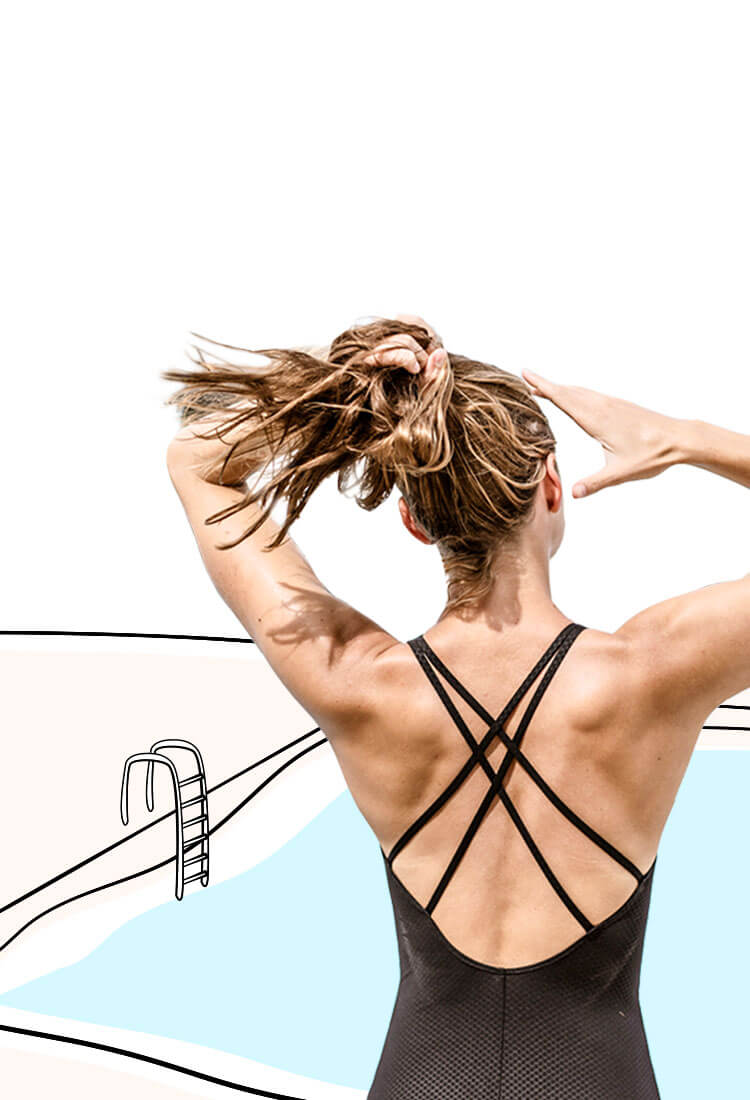
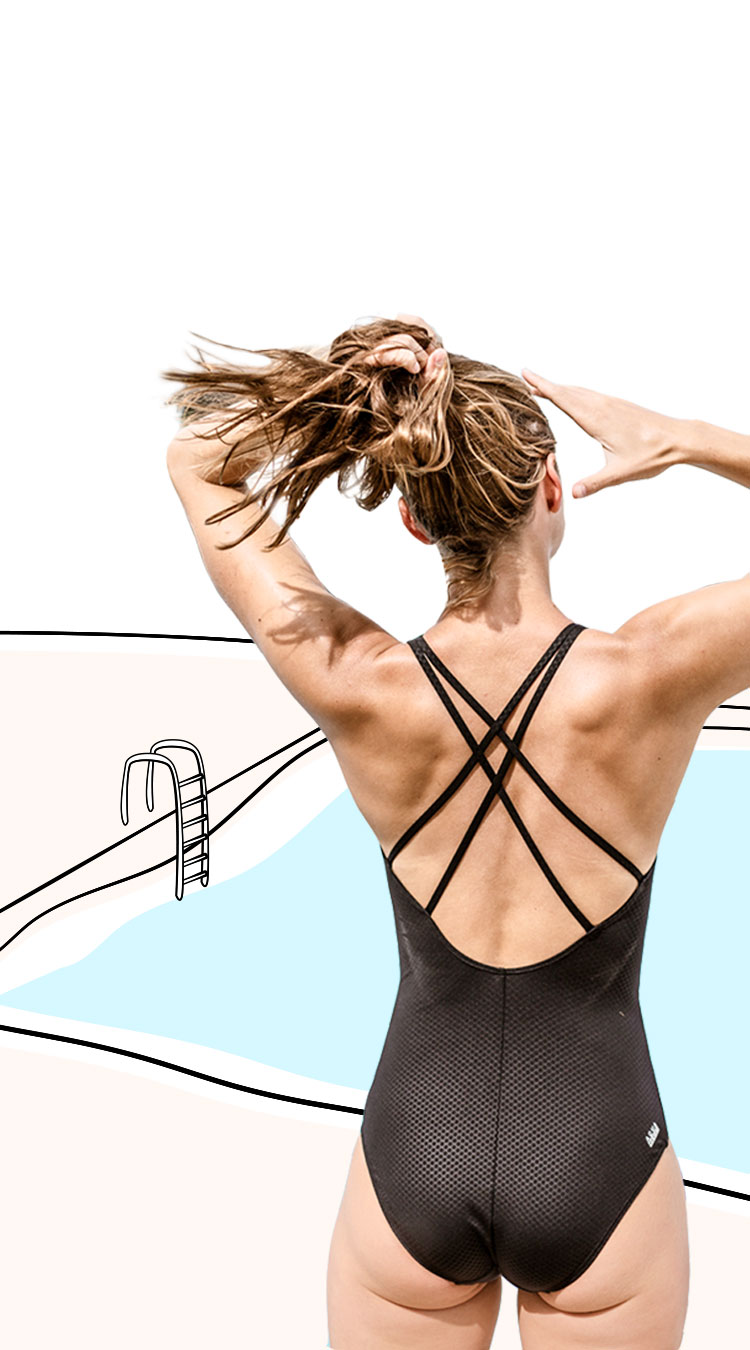
解决： 1. 文字显示时间

diff --git a/index.html b/index.html
@@ -30,14 +30,16 @@
     <div class="wrap">
         <div class="scene-flipper">
             <div class="scene-flipper_front">
-                <section class="stage stage-landing flex flex-direction_column flex-justify_between flex-align_center">
+                <section class="stage stage-landing flex flex-direction_column flex-justify_center flex-align_center">
+                    <div class="flex flex-direction_column flex-justify_between flex-align_center">
+                        <h2 class="words word-landing_title">晒出最美泳姿 赢迪卡侬大奖</h2>
+                        <ul class="flex flex-justify_center flex-align_center">
+                            <li><a class="btns btn-start" href="javascript:;">晒照赢奖</a></li>
+                            <li><a class="btns btn-buy" href="javascript:;">购买泳衣</a></li>
+                        </ul>
+                    </div>
                     <a class="btns btn-photoWall" href="javascript:;">照片墙</a>
                     <a class="btns btn-rule" href="javascript:;">活动规则</a>
-                    <h2 class="words word-landing_title">晒出最美泳姿 赢迪卡侬大奖</h2>
-                    <ul class="flex flex-justify_center flex-align_center">
-                        <li><a class="btns btn-start" href="javascript:;">晒照赢奖</a></li>
-                        <li><a class="btns btn-buy" href="javascript:;">购买泳衣</a></li>
-                    </ul>
                 </section>
             </div>
             <div class="scene-flipper_back">
@@ -128,6 +130,7 @@
         </li>
         <li>
             <section class="stage stage-photo flex flex-direction_column flex-justify_center flex-align_center">
+                <span class="words word-tips_photo"></span>
                 <div class="photo-container">
                     <div class="photo-canvas"><!-- js create elem --></div>
                     <div class="photo-template"><!-- js create elem --></div>
@@ -154,8 +157,8 @@
         <li>
             <section class="stage stage-wall">
                 <ul class="tab flex flex-justify_center flex-align_center">
-                    <li><span class="btns btn-photoWall_disable">照片墙</span></li>
-                    <li><a class="btns btn-playbill" href="javascript:;" title="个人海报">个人海报</a></li>
+                    <li><span class="btns btn-photoWall">照片墙</span></li>
+                    <li><a class="btns btn-playbill_disable" href="javascript:;" title="个人海报">个人海报</a></li>
                 </ul>
                 <a class="btns btn-home" href="javascript:;">首页</a>
                 <div class="wall-list flex flex-wrap_wrap flex-justify_center"><!-- js create elem --></div>
@@ -193,7 +196,7 @@
         <section class="pop-tmall">
             <div class="pop-tmall_box flex flex-direction_column flex-justify_center flex-align_center">
                 <div></div>
-                <div>
+                <div class="flex flex-direction_column flex-justify_center flex-align_center">
                     <h3 class="words word-tmall_title">复制淘口令，打开天猫</h3>
                     <p>復|制这段描述￥o5VaY0wrOCD￥后到☞淘♂寳♀☜</p>
                     <a class="btns btn-pop_copy" href="javascript:;" title="一键复制">一键复制</a>
@@ -285,6 +288,23 @@
         <section class="pop-error" data-close=".pop-error">
             <div class="pop-error_box flex flex-justify_center flex-align_center">
                 <span class="words word-tips_error">Opps，您的图片无法识别试试背景更干净的美照吧~</span>
+            </div>
+        </section>
+        <section class="pop-copy" data-close=".pop-copy">
+            <div class="pop-copy_box flex flex-justify_center flex-align_center">
+                <span class="words word-tips_copy">复制成功</span>
+            </div>
+        </section>
+        <section class="pop-guide">
+            <div class="pop-guide_box pop-guide_photo">
+                <span class="words word-guide_title2 translate_centerX">这个姿势拍照更好看哦~PS.请上传无遮挡的人身图像</span>
+                <div class="translate_centerX"><img src="" /></div>
+                <a class="btns btn-pass" href="javascript:;" title="知道了" data-index="0">知道了</a>
+            </div>
+            <div class="pop-guide_box pop-guide_slogan hide">
+                <span class="words word-guide_title1 translate_centerX">戳左右箭头可选择更多宣言也可写下你的美丽主张~</span>
+                <div class="translate_centerX"></div>
+                <a class="btns btn-pass" href="javascript:;" title="知道了" data-index="1">知道了</a>
             </div>
         </section>
     </div>

diff --git a/css/views/index.css b/css/views/index.css
@@ -5,7 +5,7 @@
 .stage .btn-back{position: absolute; left: .25rem; top: .2rem; z-index: 200;}
 
 .stage-coming{background: #fff url(../../images/bg-comming.jpg) no-repeat center bottom; background-size: 100%;}
-.stage-landing{padding: .9rem 0 .7rem; background: #fff url(../../images/bg-landing.jpg) no-repeat center bottom; background-size: 100%}
+.stage-landing{background-color: #fff;}
 .stage-theme{padding: .85rem 0 .4rem; background: #fff url(../../images/bg-theme.jpg) no-repeat center bottom; background-size: 100%;}
 .stage-form{padding-top: .5rem;}
 .stage-photo{background: #fff url(../../images/bg-photo.jpg) no-repeat center bottom; background-size: 100%;}
@@ -47,8 +47,13 @@
 .stage-form_select span{color: #848484; font-size: .44rem; font-family: VerlagBook, FZZhunYuan, Arial, Microsoft Yahei;}
 
 .stage-landing li{margin: 0 .1rem;}
-.stage-landing .btn-photoWall{position: absolute; right: .2rem; top: .2rem;}
-.stage-landing .btn-rule{position: absolute; right: 2.2rem; top: .24rem;}
+.stage-landing div{position: relative; width: 100%; min-height: 11rem; padding: .9rem 0 .7rem;}
+.stage-landing div{
+  box-sizing: border-box;
+}
+.stage-landing div:before{content: '.'; display: block; position: absolute; left: 0; top: .1rem; width: 100%; height: 13.5rem; background: #fff url(../../images/bg-landing.jpg) no-repeat center 0; background-size: 100%}
+.stage-landing .btn-photoWall{position: absolute; right: .2rem; top: .4rem;}
+.stage-landing .btn-rule{position: absolute; right: 2.2rem; top: .44rem;}
 
 .stage-theme .theme-panel{position: absolute; left: 0; top: 0; width: 100%; height: 100%; z-index: 100;}
 .stage-theme .theme-item{width: 4.46rem; height: 6.54rem; margin: 0 auto;}

diff --git a/js/views/index.js b/js/views/index.js
@@ -618,7 +618,7 @@
         timer = setTimeout(function() {
             ee.trigger(cmd.CLOSE_POP, ['.pop-error']);
 
-            goToScene(SCENE.THEME, initSwiper);
+            // goToScene(SCENE.THEME, initSwiper);
         }, 2000);
     };
 

diff --git a/photo.php b/photo.php
@@ -100,14 +100,16 @@
     <div class="wrap">
         <div class="scene-flipper">
             <div class="scene-flipper_front">
-                <section class="stage stage-landing flex flex-direction_column flex-justify_between flex-align_center">
+                <section class="stage stage-landing flex flex-direction_column flex-justify_center flex-align_center">
+                    <div class="flex flex-direction_column flex-justify_between flex-align_center">
+                        <h2 class="words word-landing_title">晒出最美泳姿 赢迪卡侬大奖</h2>
+                        <ul class="flex flex-justify_center flex-align_center">
+                            <li><a class="btns btn-start" href="javascript:;">晒照赢奖</a></li>
+                            <li><a class="btns btn-buy" href="javascript:;">购买泳衣</a></li>
+                        </ul>
+                    </div>
                     <a class="btns btn-photoWall" href="javascript:;">照片墙</a>
                     <a class="btns btn-rule" href="javascript:;">活动规则</a>
-                    <h2 class="words word-landing_title">晒出最美泳姿 赢迪卡侬大奖</h2>
-                    <ul class="flex flex-justify_center flex-align_center">
-                        <li><a class="btns btn-start" href="javascript:;">晒照赢奖</a></li>
-                        <li><a class="btns btn-buy" href="javascript:;">购买泳衣</a></li>
-                    </ul>
                 </section>
             </div>
             <div class="scene-flipper_back">
